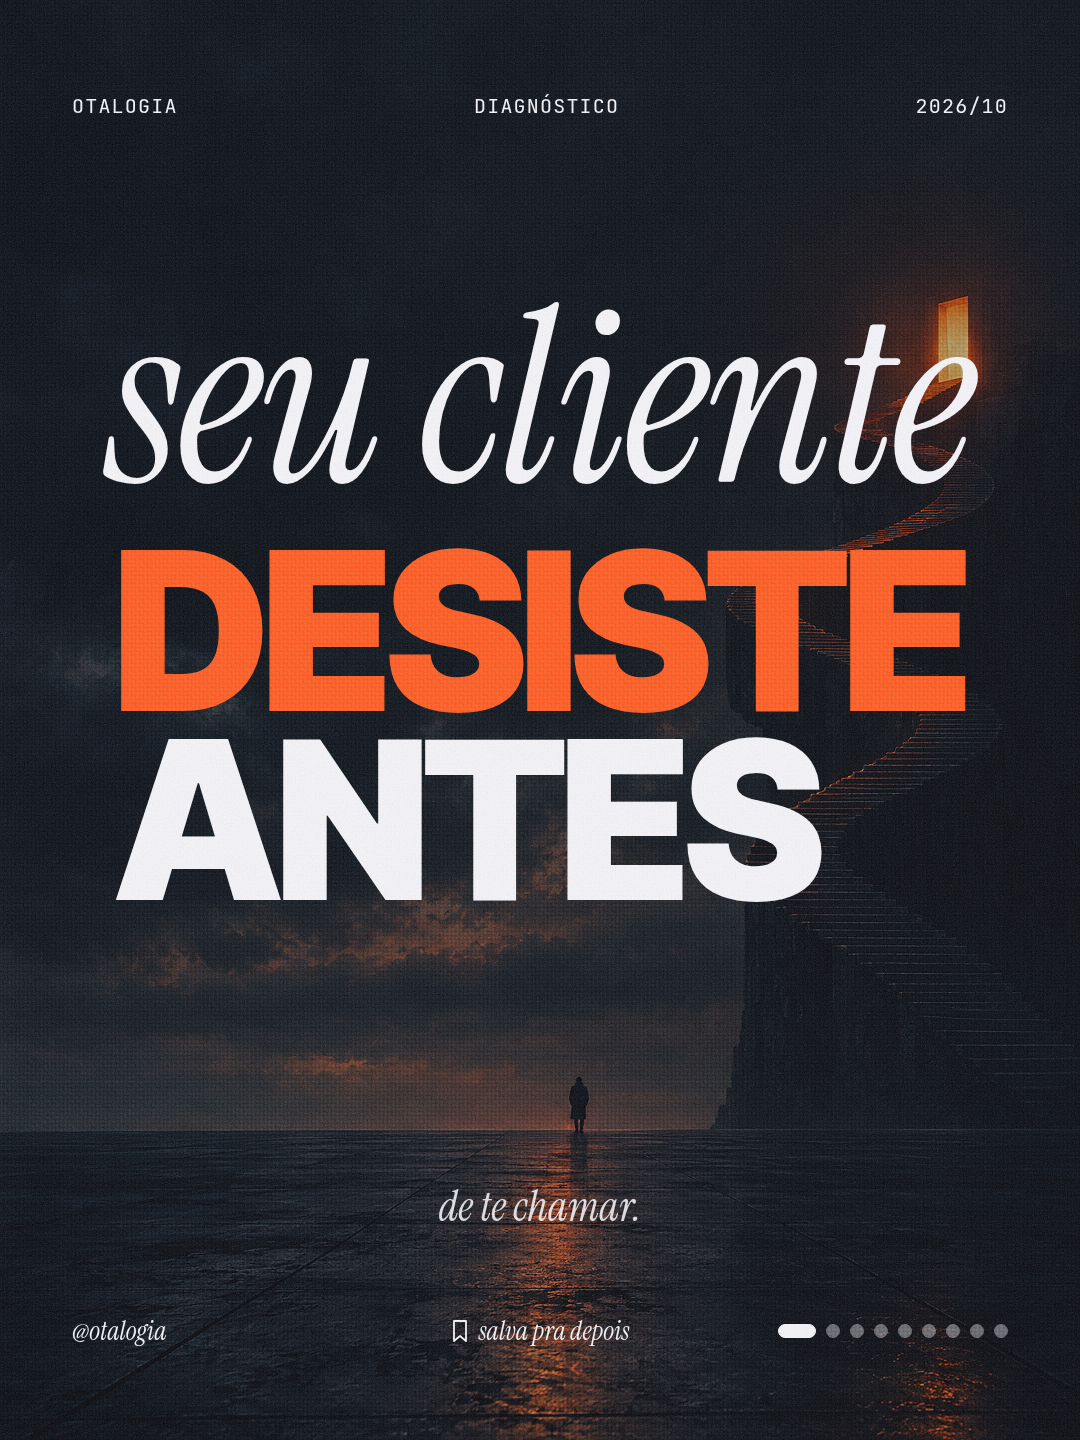
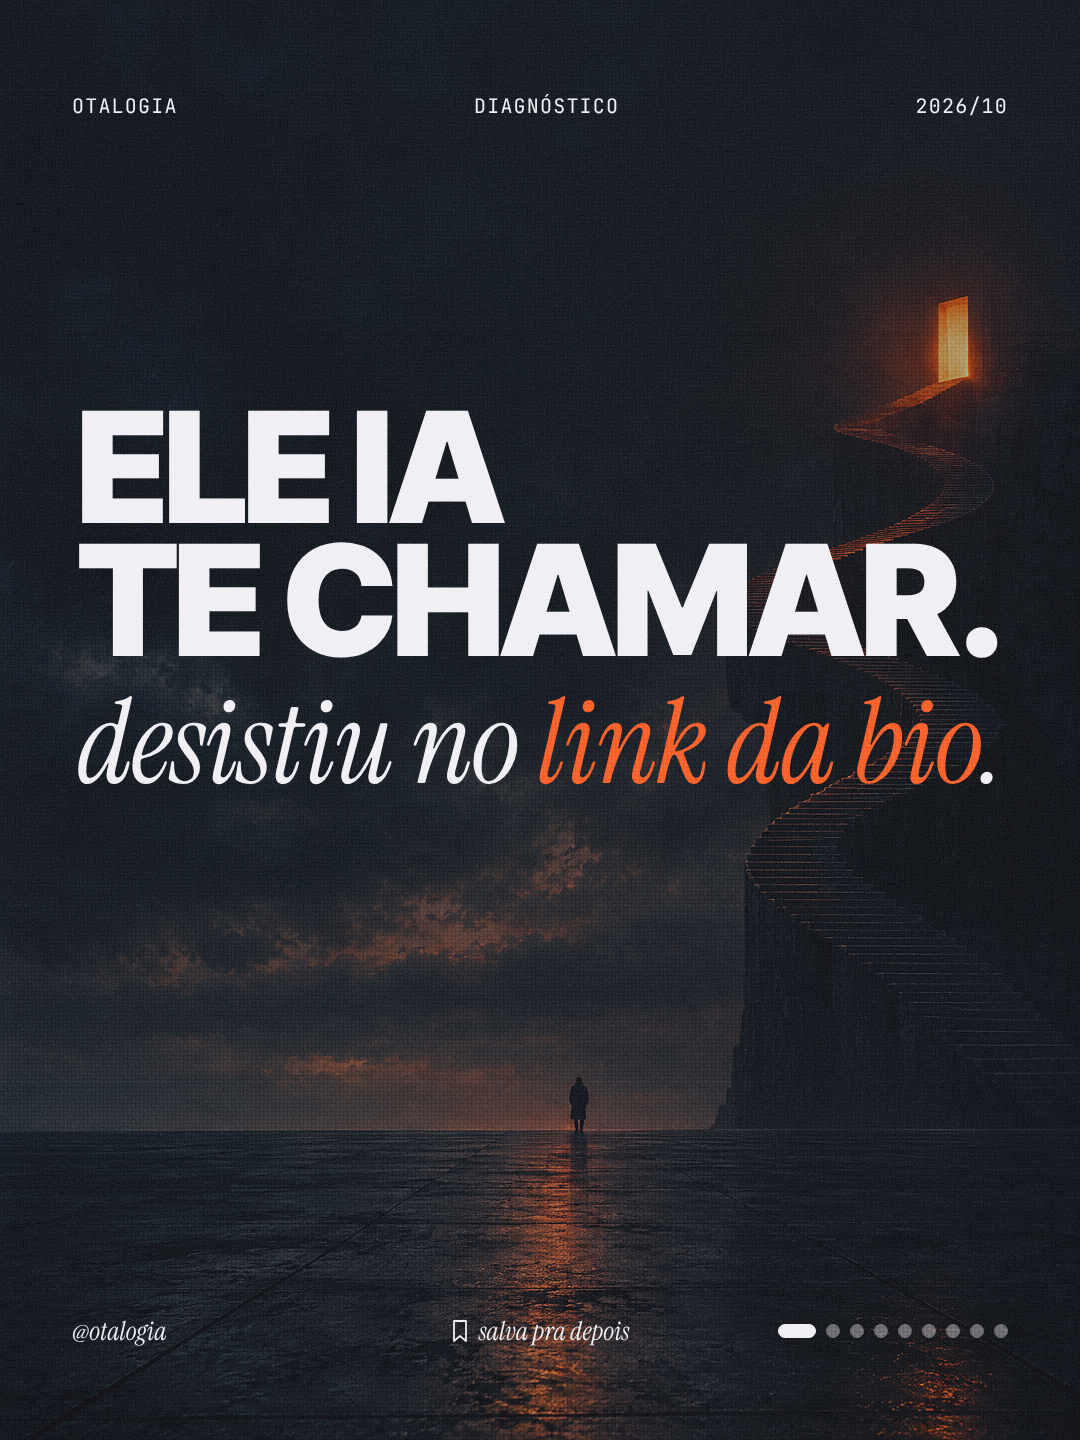
content: carrosséis revisados pelos insights (2 capas novas, legendas com envio/salvamento, hashtags do nicho)
Claude-Session: https://claude.ai/code/session_01WDxReTnfhfqfQc731yHSwZ

diff --git a/pesquisa/instagram/avaliacao-carrosseis.md b/pesquisa/instagram/avaliacao-carrosseis.md
@@ -1,0 +1,34 @@
+# Avaliação dos carrosséis com base na análise de 08/10/2026
+
+Critérios tirados de `analise-e-plano.md` e das skills `ig-hook-extractor` e `ig-caption-writer`:
+
+1. **Capa com promessa ou cena**, não título. O que mais engajou no nicho abriu com cena concreta ("Ela abria o caderno…") ou custo concreto.
+2. **Ângulo saturado** ("site bonito não vende", "você precisa de site") só passa com diferencial.
+3. **Envio e salvamento valem mais que curtida.** A legenda precisa de um pedido claro de envio ou salvamento, além do CTA de palavra.
+4. **Os primeiros 125 caracteres da legenda** carregam o gancho e a palavra que o cliente busca (SEO social).
+5. **3 a 5 hashtags do nicho.** Sem #marketingdigital, #inteligenciaartificial, #instagram, #ia ou #design (genéricas, metade dos posts em espanhol, não trazem cliente).
+6. **Gancho com a tendência do momento** quando ela existir (WhatsApp com IA no pequeno negócio).
+
+## O que foi alterado
+
+| Carrossel | Status | Mudança | Por quê |
+|---|---|---|---|
+| teste-do-site | rascunho | **Capa nova:** "SEU SITE PERDE CLIENTE? teste grátis em 5 minutos." (antes: "dá pra TESTAR SEU SITE"). Re-renderizada e conferida. Abertura da legenda alinhada. | A capa antiga era título sem promessa (critério 1). A nova traz a dor, o grátis e o número, e conversa com o Reel R10. |
+| desiste-antes | rascunho | **Capa nova:** "ELE IA TE CHAMAR. desistiu no link da bio." (antes: "seu cliente DESISTE ANTES"). Re-renderizada e conferida. Cena na 1ª linha da legenda. | Formato de cena, que foi o que mais engajou no nicho (critério 1). |
+| mesma-pergunta | aprovado | Legenda cita o agente de IA gratuito do WhatsApp Business (Brasil, fev/2026). | Assunto quente do nicho (critério 6). |
+| os 17 não publicados | — | Linha de envio ou salvamento antes do CTA ("Manda pra quem…" / "Salva pra…"). | Critério 3. |
+| os 17 não publicados | — | Hashtags trocadas por #otalogia + 3 do nicho (#criacaodesites, #automacaodeprocessos, #whatsappbusiness, #seolocal…). | Critério 5. |
+| antes-e-depois-post, logo-sistema, tarde-por-semana | aprovado | Marcados como `postado: true` (6, 7 e 8/out), conforme a coleta. | A fila parava de oferecer post já publicado. |
+
+## O que não mudei (aprovado por você), mas recomendo
+
+- **site-invisivel**: a capa "Seu site não é feio. Ele é *invisível*." usa o contraste "não é X, é Y", que o próprio roteiro proíbe. O ângulo também está saturado. Alternativa de 8 palavras: "Seu cliente busca no Google. E acha o *concorrente*."
+- **preciso-de-site** e **do-zero-ao-ar**: estão no ângulo saturado de site. Publique com um caso real (prazo, antes e depois de um cliente aidealab) ou empurre para depois dos carrosséis de WhatsApp e automação, que têm menos concorrência no nicho.
+- **react-awwwards**: conversa com dev e designer, não com dono de negócio. Rende envio, mas não cliente. Use como post de Collab com uma conta de dev e não conte com ele para a meta de seguidores.
+- **ia-sem-hype** e **ia-nao-faz-isso**: mesmo pilar e mesmo argumento ("a IA faz, você decide"). Publique com pelo menos 2 semanas de distância.
+
+Se quiser, aplico essas trocas nos aprovados. Dá para re-renderizar na nuvem como fiz com os dois rascunhos.
+
+## Atenção no Drive
+
+O `entregar.yml` não reenvia pastas que já existem em 04-Carrosseis. Para as capas novas de **teste-do-site** e **desiste-antes** chegarem ao Drive, apague essas duas pastas lá. No próximo push, elas sobem de novo, já atualizadas.

diff --git a/carrosseis/2026-10-desiste-antes/legenda.md b/carrosseis/2026-10-desiste-antes/legenda.md
@@ -1,7 +1,11 @@
+Ele ia te chamar no WhatsApp e desistiu no link da bio.
+
 Muita gente chega no seu perfil com vontade de falar com você e desiste no caminho. Link na bio, menu, formulário, e só depois o WhatsApp.
 
 Cada passo a mais é uma chance de o cliente fechar o app. Uma página com vários botões obriga a escolher, e um formulário no meio pede tempo que ele não separou.
 
 O que costuma funcionar é encurtar: do post até a conversa em um toque, e uma automação cuidando do que vem depois do clique, com aviso, registro e resposta.
+
+Salva e confere hoje o caminho do seu perfil até o WhatsApp.
 
 Comenta LINK que eu te mando um checklist pra rever o caminho do seu perfil.

diff --git a/carrosseis/2026-10-teste-do-site/legenda.md b/carrosseis/2026-10-teste-do-site/legenda.md
@@ -1,7 +1,9 @@
-Dá pra testar seu site hoje, de graça, sem pedir nada pra ninguém.
+Seu site perde cliente? Dá pra testar hoje, de graça, em uns 5 minutos.
 
 Três ferramentas do Google fazem o trabalho: o PageSpeed Insights mostra a velocidade no celular, o Search Console mostra com quais buscas você aparece e o que está com erro, e o Perfil da Empresa cuida da sua vitrine na busca e no Maps.
 
 Comece pelo ponto que veio pior. Cole o endereço, anote o que ficou em vermelho e resolva um item por vez.
+
+Salva pra fazer no domingo.
 
 Comenta TESTE que eu te mando o roteiro passo a passo no direct.

diff --git a/carrosseis/2026-10-mesma-pergunta/legenda.md b/carrosseis/2026-10-mesma-pergunta/legenda.md
@@ -1,3 +1,7 @@
 Quanto custa, abre hoje, onde fica, faz entrega. Se você responde isso na mão o dia todo, o próprio WhatsApp Business já resolve boa parte: mensagem de boas-vindas, respostas rápidas e localização com um toque. Você só entra na conversa quando ela precisa de você.
 
+E desde fevereiro o WhatsApp Business tem um agente de IA gratuito no Brasil, que pode responder as perguntas simples por você.
+
+Manda pra quem responde o WhatsApp da sua empresa.
+
 Comenta WHATS que eu te mando o modelo de respostas.

diff --git a/carrosseis/2026-10-react-awwwards/legenda.md b/carrosseis/2026-10-react-awwwards/legenda.md
@@ -4,4 +4,6 @@ As que eu mais abro: React Bits pra texto e fundo animado, Aceternity UI e Magic
 
 O que separa um site de prêmio de um template é a montagem. Uma animação forte por página, fonte e cor da marca no lugar das da demo, e teste no celular antes de mostrar pra alguém.
 
+Salva a lista pra quando for montar o próximo site.
+
 Comenta REACT que eu te mando a lista com os links no direct.

diff --git a/carrosseis/2026-10-ia-nao-faz-isso/legenda.md b/carrosseis/2026-10-ia-nao-faz-isso/legenda.md
@@ -2,4 +2,6 @@ A IA entrega uma arte certinha em segundos. Certinha não é o mesmo que memorá
 
 O que faz a peça ter cara de negócio é decisão: qual cor combina com a marca, onde cortar, qual tom fala com o seu cliente. Isso é olho, e olho se treina.
 
+Manda pra quem aprova arte de IA sem olhar duas vezes.
+
 Comenta OLHO que eu olho uma arte sua e te digo o que cortar, mudar ou deixar.

diff --git a/carrosseis/2026-10-planta-pedido/legenda.md b/carrosseis/2026-10-planta-pedido/legenda.md
@@ -2,4 +2,6 @@ Quando o pedido chega no WhatsApp, quase sempre ele passa por várias mãos: que
 
 Desenhar o caminho como fluxograma mostra onde o pedido espera, o que é anotado duas vezes e que passo só existe na cabeça de alguém. Só depois disso vale automatizar.
 
+Manda pra quem cuida dos pedidos aí.
+
 Comenta PLANTA que eu te mando um modelo de fluxo.

diff --git a/carrosseis/2026-10-custo-real/legenda.md b/carrosseis/2026-10-custo-real/legenda.md
@@ -2,4 +2,6 @@ Automação simples tem custo: o tempo de montar, às vezes uma ferramenta, algu
 
 Antes de decidir qualquer coisa, anote por uma semana quanto tempo você gasta na tarefa mais repetitiva. Essa conta vale mais que qualquer promessa.
 
+Salva pra fazer a conta na semana que vem.
+
 Comenta CUSTO que eu te mostro como fazer a conta do seu caso.

diff --git a/carrosseis/2026-10-ia-sem-hype/legenda.md b/carrosseis/2026-10-ia-sem-hype/legenda.md
@@ -2,4 +2,6 @@ Gerar dez versões de uma arte leva segundos. Escolher qual fica, e o que sai de
 
 A IA acelera o rascunho. O corte é decisão: o que o cliente precisa ver primeiro, o que fica de fora, o que já está genérico.
 
+Manda pra quem gera dez versões e não consegue escolher.
+
 Comenta EDITAR que eu te mando 3 cortes pro seu material.

diff --git a/carrosseis/2026-10-postar-todo-dia/legenda.md b/carrosseis/2026-10-postar-todo-dia/legenda.md
@@ -4,4 +4,6 @@ Três posts por semana, mantidos o ano inteiro, dão 156 posts. O que pesa é o 
 
 Um jeito que funciona: escolher os dias, produzir tudo num dia só, transformar um assunto em três posts e deixar agendado.
 
+Manda pra quem acha que precisa postar todo dia.
+
 Comenta POSTAR que eu te mando um modelo de calendário no direct.

diff --git a/carrosseis/2026-10-do-zero-ao-ar/legenda.md b/carrosseis/2026-10-do-zero-ao-ar/legenda.md
@@ -2,4 +2,6 @@ Dá pra colocar um site simples no ar em um dia, mas não é um site completo. A
 
 Se quiser ver o que cabe no seu primeiro dia, tenha à mão o nome do negócio, os serviços, a cidade, o contato e duas ou três fotos.
 
+Salva pra ter a lista à mão quando for começar.
+
 Comenta SITE que eu te conto por onde começar.

diff --git a/carrosseis/2026-10-instagram-buscador/legenda.md b/carrosseis/2026-10-instagram-buscador/legenda.md
@@ -1,3 +1,5 @@
 Quem procura um negócio no Instagram digita uma palavra, não o seu nome. Se o nome do perfil, a bio e a primeira linha da legenda não trazem essa palavra, a busca passa direto por você. Escreva do jeito que o cliente pesquisa.
 
+Salva e revisa seu nome e sua bio hoje.
+
 Comenta BUSCA que eu te mando o checklist.
